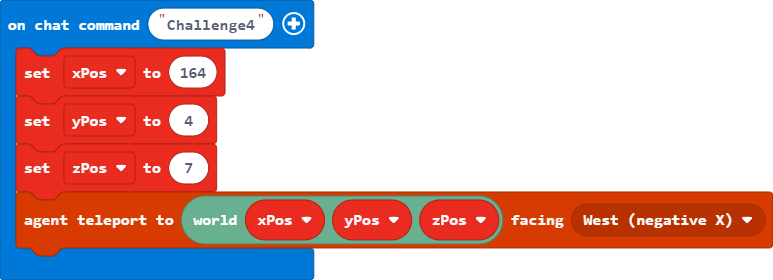
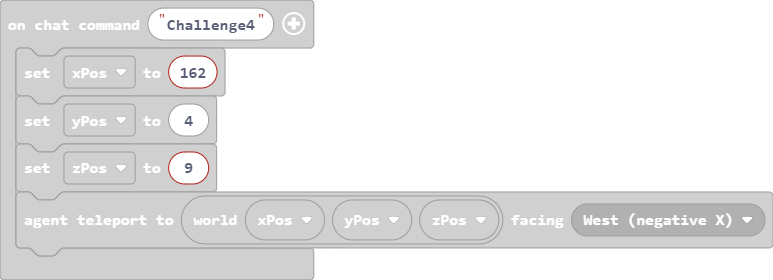
Updated Challenge4 to correct agent start position

diff --git a/main.ts b/main.ts
@@ -51,9 +51,9 @@ player.onChat("Challenge2", function () {
     agent.move(FORWARD, numFwd)
 })
 player.onChat("Challenge4", function () {
-    xPos = 164
+    xPos = 162
     yPos = 4
-    zPos = 7
+    zPos = 9
     agent.teleport(world(xPos, yPos, zPos), WEST)
 })
 player.onChat("compass", function () {
